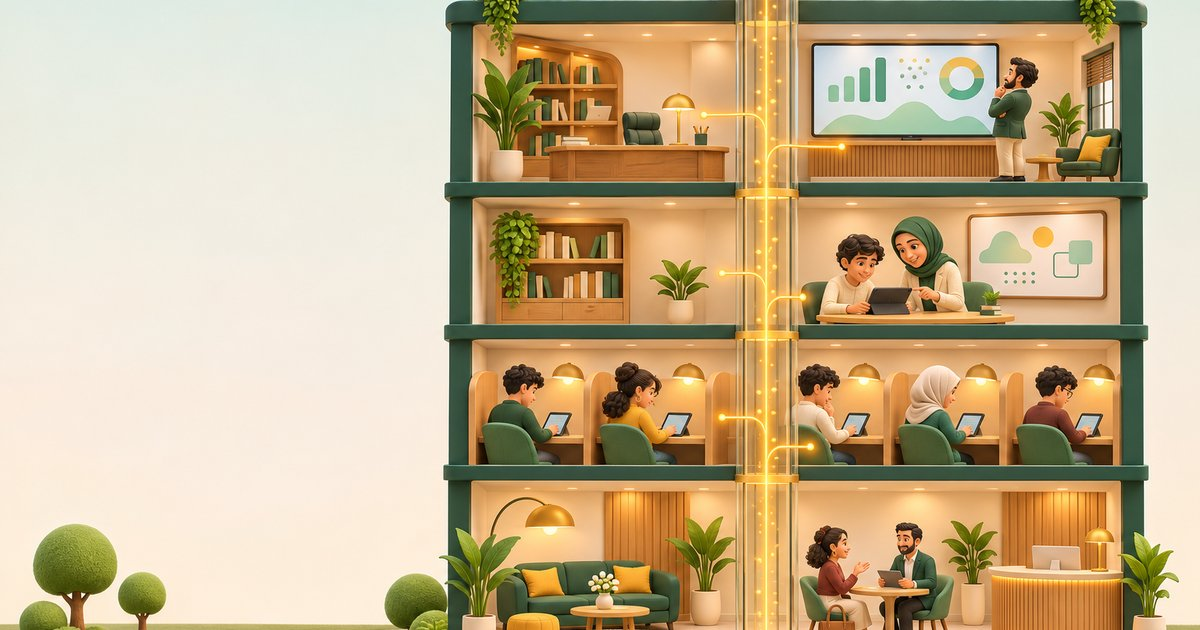
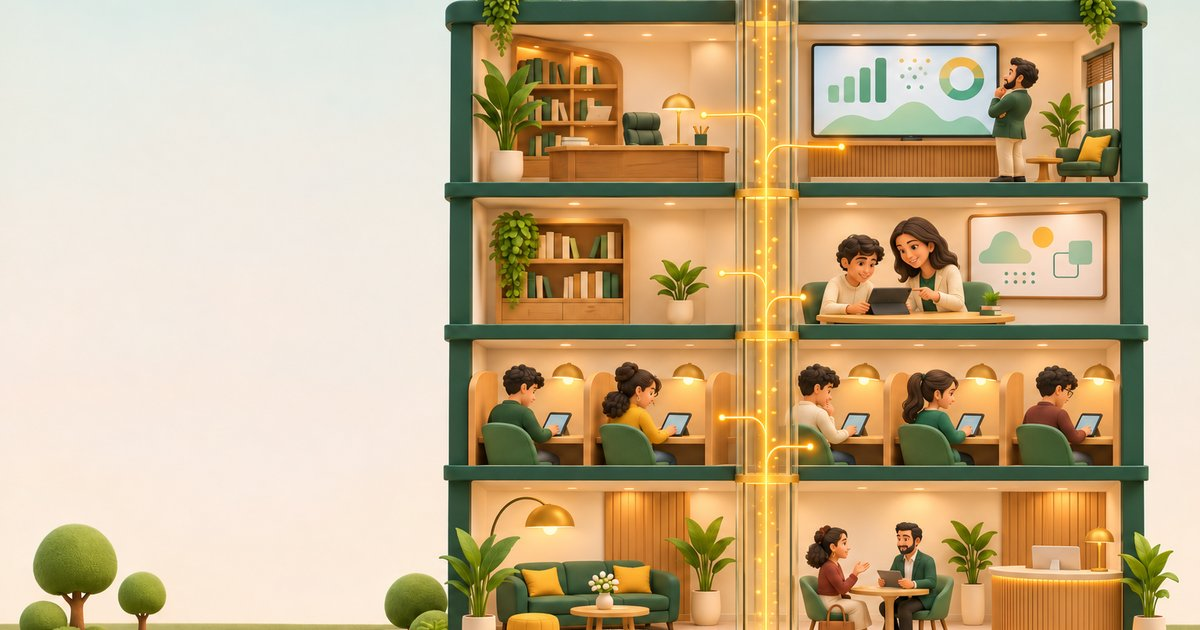
Marka yapısı, kendi markanız (white label), veli bilgilendirme, sayılar kaldırıldı, başörtüsüz hero

diff --git a/index.html b/index.html
@@ -4,16 +4,16 @@
 <meta charset="utf-8">
 <meta name="viewport" content="width=device-width, initial-scale=1">
 <title>KURSLA.ai | Yapay Zekâ Destekli Bireysel Öğrenme Merkezi</title>
-<meta name="description" content="KURSLA.ai, mevcut kurs merkezlerine yapay zekâ desteği ve AI destekli bireysel mentörlük sağlayan sistem. Marka, AI-LA altyapısı, eğitim modeli ve operasyon tek yapıda.">
+<meta name="description" content="KURSLA.ai, mevcut kurs merkezlerine yapay zekâ desteği ve AI destekli bireysel mentörlük sağlayan sistem. Kendi markanızla çalışan AI-LA altyapısı, eğitim modeli ve operasyon tek yapıda.">
 <meta property="og:title" content="KURSLA.ai | Kurs merkezinizi yapay zekâ ile yeniden kurun">
-<meta property="og:description" content="Marka, AI-LA teknolojisi ve eğitim modeli tek yapıda. Yönetici, öğretmen, öğrenci ve veli aynı sistemi kendi ekranından izler.">
+<meta property="og:description" content="Markayı biz vermiyoruz, sizin markanızı bir üst seviyeye taşıyoruz. AI-LA teknolojisi ve eğitim modeli, kurs merkezinizin kendi adıyla.">
 <meta property="og:image" content="img/og.jpg">
 <meta name="theme-color" content="#10574a">
 <link rel="icon" href="img/ikon.png" type="image/png">
 <link rel="preconnect" href="https://fonts.googleapis.com">
 <link rel="preconnect" href="https://fonts.gstatic.com" crossorigin>
 <link href="https://fonts.googleapis.com/css2?family=Outfit:wght@500;600;700;800;900&family=Plus+Jakarta+Sans:wght@400;500;600;700&display=swap" rel="stylesheet">
-<link rel="stylesheet" href="style.css?v=22">
+<link rel="stylesheet" href="style.css?v=25">
 <!-- Kursla v1 (15.11.2026). İçerik canlı kursla.ai'den; düzen AI-LA landing'inden; hero fikri Okumino'nun
      "okuma odası"ndan: tek bir Codex sahnesi (kesitli kurs binası), katlar tıklanabilir, AI-LA çekirdeği canlı. -->
 </head>
@@ -25,7 +25,7 @@
     <a href="#model">Modelimiz</a>
     <a href="#nasil">Nasıl Çalışır?</a>
     <a href="#ekosistem">AI-LA</a>
-    <a href="#franchise">Franchise</a>
+    <a href="#markaniz">Kendi markanız</a>
     <a href="#uygulama">Uygulama</a>
   </nav>
   <button class="mod" id="mod" type="button" aria-label="Akşam etüdüne geç" aria-pressed="false">
@@ -42,8 +42,8 @@
 <section class="hero" id="ust" aria-labelledby="heroBaslik">
   <div class="sahne" id="sahne">
     <div class="bina" id="bina">
-      <img class="gunduz" src="img/hero_gunduz.webp" alt="" fetchpriority="high">
-      <img class="aksam" src="img/hero_aksam.webp" alt="" loading="lazy">
+      <img class="gunduz" src="img/hero_gunduz.webp?v=2" alt="" fetchpriority="high">
+      <img class="aksam" src="img/hero_aksam.webp?v=2" alt="" loading="lazy">
       <div class="cekirdek" id="cekirdek" aria-hidden="true"><i class="akis"></i><i class="nabiz" id="nabiz"></i></div>
       <div class="katlar" id="katlar" role="group" aria-label="Kurs merkezi katları. Bir kata tıklayarak o paydaşın ekranını görün."></div>
       <div class="el" id="el" aria-hidden="true"><i class="el-dalga"></i><svg viewBox="0 0 32 32" aria-hidden="true"><path d="M12.5 16V6.6a2.1 2.1 0 0 1 4.2 0v7.6l.1-1.3a2 2 0 0 1 4 .3v1.6l.2-.8a2 2 0 0 1 3.9.6v2.2l.2-.4a1.9 1.9 0 0 1 3.6.9v3.9c0 4.6-3.5 8-8.1 8h-1.9c-2.5 0-4.3-1-5.8-2.9l-4.6-6a2.1 2.1 0 0 1 3.2-2.7Z"/></svg></div>
@@ -80,14 +80,6 @@
   </div>
 </section>
 
-<!-- 2. SAYILAR -->
-<section class="sayilar" aria-label="Kısaca KURSLA.ai">
-  <div class="sayi"><b data-say="8" data-son=" hafta">0</b><span>Ortalama dönüşüm süresi</span></div>
-  <div class="sayi"><b data-say="3" data-on="x">0</b><span>Öğretmen başına birebir takip kapasitesi</span></div>
-  <div class="sayi"><b>0 dk</b><span>Manuel ödev hazırlama süresi</span></div>
-  <div class="sayi"><b data-say="4" data-son=" panel">0</b><span>Yönetici · öğretmen · öğrenci · veli</span></div>
-</section>
-
 <!-- 3. MODEL -->
 <section class="bolum" id="model" aria-labelledby="modelBaslik">
   <div class="bolum-ust">
@@ -99,8 +91,8 @@
     <article class="bilesen gor" style="--d:0">
       <div class="bilesen-gorsel"><img src="img/p_marka.webp" alt="" loading="lazy"></div>
       <span class="no">01</span>
-      <h3>Marka</h3>
-      <p>Kurumsal kimlik, konumlandırma ve veli iletişimi standartlarıyla bölgenizde tanınan bir kurum.</p>
+      <h3>Kendi markanız</h3>
+      <p>Sistem sizin adınız, logonuz ve renklerinizle çalışır; KURSLA.ai arka planda altyapı olarak kalır.</p>
     </article>
     <article class="bilesen gor" style="--d:1">
       <div class="bilesen-gorsel"><img src="img/p_teknoloji.webp" alt="" loading="lazy"></div>
@@ -149,7 +141,7 @@
       <li data-t="0.26"><b>Kişisel plan</b><span>Öğrenciye özel haftalık çalışma planı oluşturulur.</span></li>
       <li data-t="0.5"><b>İçerik ataması</b><span>Doğru konu, doğru zamanda ve doğru platformdan gelir.</span></li>
       <li data-t="0.74"><b>Öğretmen takibi</b><span>Birebir seanslarla öğretmen rehberliği devam eder.</span></li>
-      <li data-t="0.98"><b>Veli raporu</b><span>Veli, sade ve anlaşılır bir gelişim özeti alır.</span></li>
+      <li data-t="0.98"><b>Veli bilgilendirme</b><span>Veliye sade ve düzenli bilgilendirmeler sunulur.</span></li>
     </ol>
   </div>
 </section>
@@ -185,25 +177,25 @@
   <div class="panel-alan" id="panelAlan"></div>
 </section>
 
-<!-- 8. FRANCHISE -->
-<section class="bolum bolum-krem" id="franchise" aria-labelledby="frBaslik">
+<!-- 8. KENDİ MARKANIZ (white label) -->
+<section class="bolum bolum-krem" id="markaniz" aria-labelledby="frBaslik">
   <div class="bolum-ust">
-    <p class="ust-etiket">Franchise</p>
-    <h2 id="frBaslik">Sisteme <span class="y">iki şekilde</span> dahil olabilirsiniz</h2>
-    <p class="giris-metin">Çalışan bir kurs merkeziniz varsa sisteme taşıyın; yeni kuruyorsanız en baştan kurgulayın.</p>
+    <p class="ust-etiket">Kendi markanız</p>
+    <h2 id="frBaslik">Markanızı <span class="y">bir üst seviyeye</span> taşıyın</h2>
+    <p class="giris-metin">Markayı biz vermiyoruz. KURSLA.ai, white label altyapısıyla kendi markanızı yapay zekâ destekli bir öğrenme merkezine dönüştürür.</p>
   </div>
   <div class="ikili">
     <article class="yol-kart one gor" style="--d:0">
       <span class="rozet">En çok tercih edilen</span>
       <img src="img/y_mevcut.webp" alt="" loading="lazy">
-      <div><h3>Mevcut merkezinizi sisteme taşıyın</h3>
-      <p>Kurulu düzeninizi ve kadronuzu koruyarak marka, yapay zekâ altyapısı ve mentörlük modelini devreye alın.</p>
+      <div><h3>Mevcut merkezinizi dönüştürün</h3>
+      <p>Adınız, kadronuz ve düzeniniz aynı kalır; yapay zekâ altyapısı ve mentörlük modeli sizin markanızla devreye girer.</p>
       <a class="btn" href="#basvuru" data-tur="donusum">Mevcut merkezim için başvur <span aria-hidden="true">→</span></a></div>
     </article>
     <article class="yol-kart gor" style="--d:1">
       <img src="img/y_yeni.webp" alt="" loading="lazy">
-      <div><h3>Yeni kuracağınız merkeze kurgulayın</h3>
-      <p>Eğitim sektörüne yeni giriyorsanız, sistemi ve eğitim modelini ilk günden doğru kurmanız için yanınızdayız.</p>
+      <div><h3>Yeni merkezinizi kendi markanızla kurun</h3>
+      <p>Eğitim sektörüne yeni giriyorsanız, sistemi ve eğitim modelini ilk günden kendi markanızla doğru kurmanız için yanınızdayız.</p>
       <a class="btn btn-ghost" href="#basvuru" data-tur="yeni">Yeni merkez için başvur <span aria-hidden="true">→</span></a></div>
     </article>
   </div>
@@ -218,7 +210,7 @@
       <ul class="uy-liste">
         <li class="gor" style="--d:0"><img class="ikon3d" src="img/u_bulut.webp?v=2" alt="" loading="lazy"><div><b>Bulut tabanlı altyapı</b><p>Ek donanım veya tadilat gerekmez; sistem mevcut düzeninizin üzerine kurulur.</p></div></li>
         <li class="gor" style="--d:1"><img class="ikon3d" src="img/u_mentor.webp?v=2" alt="" loading="lazy"><div><b>AI destekli bireysel mentörlük</b><p>Her öğrencinin planını yapay zekâ kurar, öğretmen mentör olarak takip eder.</p></div></li>
-        <li class="gor" style="--d:2"><img class="ikon3d" src="img/u_panel.webp?v=2" alt="" loading="lazy"><div><b>Ortak panel ve raporlama</b><p>Yönetici, öğretmen, öğrenci ve veli aynı sistemi kendi ekranından izler.</p></div></li>
+        <li class="gor" style="--d:2"><img class="ikon3d" src="img/u_panel.webp?v=2" alt="" loading="lazy"><div><b>Ortak panel ve raporlama</b><p>Yönetici, öğretmen ve öğrenci aynı sistemi kendi ekranından izler; veliye düzenli bilgilendirme gider.</p></div></li>
       </ul>
     </div>
     <figure class="foto gor">
@@ -239,7 +231,7 @@
 
 <!-- 11. BAŞVURU: aynı bina, akşam -->
 <section class="basvuru" id="basvuru" aria-labelledby="basBaslik">
-  <div class="basvuru-zemin" aria-hidden="true"><img src="img/hero_aksam.webp" alt="" loading="lazy"></div>
+  <div class="basvuru-zemin" aria-hidden="true"><img src="img/hero_aksam.webp?v=2" alt="" loading="lazy"></div>
   <div class="basvuru-ic">
     <div class="basvuru-metin">
       <img class="basvuru-logo" src="img/kursla_logo_beyaz.webp" alt="KURSLA.ai" width="677" height="368">
@@ -277,19 +269,19 @@
   <div class="alt-izgara">
     <div class="alt-marka">
       <img src="img/kursla_logo_beyaz.webp" alt="KURSLA.ai" width="677" height="368">
-      <p>Mevcut kurs merkezlerine yapay zekâ desteği ve bireysel mentörlük sağlayan; marka, teknoloji ve eğitim modelini tek yapıda sunan sistem.</p>
+      <p>Kurs merkezlerine kendi markalarıyla çalışan yapay zekâ altyapısı ve bireysel mentörlük modeli sağlayan white label sistem.</p>
     </div>
     <div><h4>Platform</h4><a href="https://kursla.ai">kursla.ai</a><a href="https://login.kursla.ai">login.kursla.ai</a><a href="https://ai-la.ai">AI-LA ekosistemi</a></div>
-    <div><h4>Nasıl çalışır?</h4><a href="#franchise">Mevcut merkezler için</a><a href="#franchise">Yeni kurulumlar için</a><a href="#basvuru">Başvuru formu</a><a href="#uygulama">Uygulama modeli</a></div>
+    <div><h4>Nasıl çalışır?</h4><a href="#markaniz">Mevcut merkezler için</a><a href="#markaniz">Yeni kurulumlar için</a><a href="#basvuru">Başvuru formu</a><a href="#uygulama">Uygulama modeli</a></div>
     <div><h4>İletişim</h4><a href="mailto:info@kursla.ai">info@kursla.ai</a><span>Pazartesi–Cuma · 09:00–18:00</span></div>
   </div>
   <div class="alt-son">
     <span>© 2026 KURSLA.ai — Tüm hakları saklıdır.</span>
     <span class="alt-yasal"><a href="kvkk/">KVKK</a><a href="kvkk/#basvuru-formu">Başvuru formu aydınlatma metni</a><a href="https://bilisimschool.com/kvkk/cerez_ve_gizlilik_politikasi.pdf" target="_blank" rel="noopener">Çerez ve Gizlilik Politikası</a></span>
-    <span>Bir <a href="https://ai-la.ai">AI-LA</a> ekosistem ürünüdür.</span>
+    <span>KURSLA.ai bir <a href="https://ai-la.ai">AI-LA</a> ekosistem ürünüdür.</span>
   </div>
 </footer>
 
-<script src="app.js?v=23"></script>
+<script src="app.js?v=24"></script>
 </body>
 </html>

diff --git a/app.js b/app.js
@@ -14,16 +14,16 @@ const KATLAR = [
     mock: { t: 'Merkez özeti', m: 'BU HAFTA', s: [['Aktif öğrenci', '142 / 150'], ['Birebir seans', '96 görüşme'], ['AI-LA uyarısı', '3 öğrenci', 1]], c: [52, 64, 58, 72, 80, 76, 92] } },
   { id: 'ogretmen', no: 3, ad: 'Öğretmen', kutu: [39.4, 35.4, 93.4, 51.3],
     baslik: 'Öğretmen paneli', metin: 'Plan hazırlığıyla uğraşmadan, doğrudan öğrenciyle geçirdiğiniz zamana odaklanın.',
-    ozellik: ['Öğrenci bazlı hazır haftalık plan', 'Eksik konu ve öncelik uyarıları', 'Birebir seans ajandası'],
+    ozellik: ['Öğrenci bazlı hazır haftalık plan', 'Eksik konu ve öncelik uyarıları', 'Birebir seans ajandası', 'Veliye otomatik bilgilendirme'],
     mock: { t: 'Günün akışı', m: 'BUGÜN', s: [['Ahmet Y. · 8-A', '15:30 seans'], ['Öncelikli konu', 'Üslü ifadeler'], ['Onay bekleyen plan', '4 öğrenci', 1]] } },
   { id: 'ogrenci', no: 2, ad: 'Öğrenci', kutu: [39.4, 53.2, 93.4, 68.8],
     baslik: 'Öğrenci ekranı', metin: 'Ne çalışacağını düşünmeden, her gün net ve ulaşılabilir görevlerle ilerle.',
     ozellik: ['Günlük üç adımlık çalışma planı', 'Tek girişle tüm içerik platformları', 'Haftalık ilerleme özeti'],
     mock: { t: 'Bugünkü plan', m: '3 GÖREV', s: [['Konu anlatımı', 'Tamamlandı'], ['Odaklanma çalışması', 'Tamamlandı'], ['Deneme testi', 'Bekliyor', 1]] } },
   { id: 'veli', no: 1, ad: 'Veli', kutu: [39.4, 70.8, 93.4, 92.3],
-    baslik: 'Veli raporu', metin: 'Karmaşık grafikler yerine, çocuğunuzun gelişimini anlatan sade bir haftalık özet.',
-    ozellik: ['Haftalık çalışma süresi', 'Akademik gelişim özeti', 'Öğretmen notu ve devam bilgisi'],
-    mock: { t: 'Haftalık özet', m: 'CAN T.', s: [['Bireysel çalışma', '18 saat'], ['Okuma hızı', '+%20'], ['Öğretmen notu', 'Var', 1]], c: [30, 42, 38, 55, 61, 58, 70] } },
+    baslik: 'Veli bilgilendirme', metin: 'Veliye çocuğunun gelişimiyle ilgili sade ve düzenli bilgilendirmeler sunulur.',
+    ozellik: [],
+    mock: { t: 'Bu haftaki bilgilendirme', m: 'CAN T.', s: [['Bireysel çalışma', '18 saat'], ['Gelişen alan', 'Okuma'], ['Öğretmen notu', 'Eklendi', 1]] } },
 ];
 // AI-LA şaftı: [sol, üst, genişlik, yükseklik] %
 const SAFT = [61.6, 7.6, 4.4, 84.9];
@@ -32,7 +32,7 @@ const OLAYLAR = [
   ['Ahmet Y. için eksik konu tespit edildi', 'ogrenci'],
   ['Öğretmene birebir seans önerildi', 'ogretmen'],
   ['Haftalık plan yeniden kuruldu', 'ogrenci'],
-  ['Veli gelişim raporu gönderildi', 'veli'],
+  ['Veliye haftalık bilgilendirme gönderildi', 'veli'],
   ['İçerik Platformu konu anlatımı öğrenciye atandı', 'ogrenci'],
   ['Zeynep K. deneme netini 18 artırdı', 'yonetici'],
   ['Can T. akşam çalışmasını tamamladı', 'ogrenci'],
@@ -135,7 +135,9 @@ function katAc(i) {
   $('#katBaslik').textContent = k.baslik;
   $('#katMetin').textContent = k.metin;
   $('#katMock').innerHTML = mockHTML(k);
-  $('#katGit').onclick = () => sekmeSec(k.id);
+  const git = $('#katGit');
+  if (k.id === 'veli') { git.href = '#yolculuk'; git.firstChild.textContent = 'Öğrenci yolculuğu '; git.onclick = null; }
+  else { git.href = '#paneller'; git.firstChild.textContent = 'Paneli incele '; git.onclick = () => sekmeSec(k.id); }
   baslik.classList.add('gizli');
   kart.hidden = false;
   nabizGonder(k);
@@ -257,37 +259,40 @@ durakYerlestir(); kaydir();
 // Örnek kursiyer verisi (AI-LA beceri haritası mantığı: alan = alt becerilerin ortalaması).
 // eksik = hatalı soruların konu eksiği payı (%), kalanı dikkat hatası.
 const ALANLAR = [
-  { ad: 'Matematik', alt: [['Sayılar', 68], ['Cebir', 48], ['Geometri', 64]], eksik: 64, oneri: 'Üslü ifadeler için 2 konu anlatımı ve 1 birebir seans planlandı.' },
-  { ad: 'Türkçe', alt: [['Okuduğunu anlama', 86], ['Sözcük', 80], ['Paragraf', 76]], eksik: 35, oneri: 'Paragraf sorularına süreli tekrar eklendi.' },
+  { ad: 'Matematik', alt: [['Sayılar', 68], ['Cebir', 48], ['Geometri', 64]], eksik: 64, oneri: 'Bilgin\'de üslü ifadeler için 2 konu anlatımı ve 1 birebir seans planlandı.' },
   { ad: 'Fen', alt: [['Kavram', 70], ['Deney yorumu', 58], ['Problem', 66]], eksik: 58, oneri: 'Deney yorumu için görselli konu tekrarı atandı.' },
-  { ad: 'İngilizce', alt: [['Kelime', 78], ['Okuma', 72], ['Dinleme', 64]], eksik: 47, oneri: 'Haftada 3 kısa dinleme görevi plana girdi.' },
-  { ad: 'Okuma hızı', alt: [['Hız', 76], ['Anlama', 88], ['Odak', 74]], eksik: 28, oneri: 'Hızlıokuma Platformunda göz egzersizi serisi başladı.' },
-  { ad: 'Çalışma düzeni', alt: [['Düzenlilik', 88], ['Görev', 92], ['Odak süresi', 70]], eksik: 22, oneri: 'Akşam çalışması 25 dakikalık bloklara bölündü.' },
+  { ad: 'Türkçe', alt: [['Okuduğunu anlama', 86], ['Sözcük', 80], ['Okuma alışkanlığı', 72]], eksik: 32, oneri: 'Okumino\'da haftada 2 okuma durağı plana eklendi.' },
+  { ad: 'İngilizce', alt: [['Kelime', 78], ['Okuma', 72], ['Dinleme', 62]], eksik: 47, oneri: 'Readmino\'da 3 kısa dinleme görevi planlandı.' },
+  { ad: 'Kodlama', alt: [['Algoritma', 82], ['Hata ayıklama', 68], ['Proje', 88]], eksik: 26, oneri: 'TALENT14 patikasında döngüler adımı açıldı.' },
+  { ad: 'Yapay zekâ', alt: [['İstem yazma', 80], ['Doğrulama', 60], ['Etik', 76]], eksik: 30, oneri: 'AI-GALAXY\'de kaynak doğrulama görevi eklendi.' },
 ];
-const ESKI = [52, 74, 58, 64, 66, 72]; // 4 hafta önce
+const ESKI = [52, 60, 74, 62, 72, 66]; // 4 hafta önce
+// Haritayı besleyen ekosistem markaları (hepsi AI-LA ekosisteminin kendi markaları)
 const KAYNAKLAR = [
-  { id: 'icerik', ad: 'İçerik Platformu', img: 'n_icerik' },
-  { id: 'hizli', ad: 'Hızlıokuma Platformu', img: 'n_hizliokuma' },
-  { id: 'seans', ad: 'Birebir seans', img: 'r_ogretmen' },
-  { id: 'plan', ad: 'Günlük plan', img: 'r_ogrenci' },
+  { id: 'bilgin', ad: 'Bilgin', rol: 'İçerik Platformu', img: 'n_icerik' },
+  { id: 'okumino', ad: 'Okumino', rol: 'Okuma Platformu', img: 'n_hizliokuma' },
+  { id: 'readmino', ad: 'Readmino', rol: 'İngilizce Öğrenme Platformu', img: 'b_ingilizce' },
+  { id: 'talent14', ad: 'TALENT14', rol: 'Kodlama Becerileri Platformu', img: 'b_kodlama' },
+  { id: 'aigalaxy', ad: 'AI-GALAXY', rol: 'Yapay Zekâ Okuryazarlığı Platformu', img: 'b_yz' },
+  { id: 'talentcup', ad: 'TalentCup', rol: 'Yarışma Platformu', img: 'b_yarisma' },
 ];
 // [kaynak, alan, alt beceri, artış, etiket]
 const BESLEME = [
-  ['icerik', 0, 1, 3, 'Üslü ifadeler konu anlatımı tamamlandı'],
-  ['hizli', 4, 0, 2, 'Göz egzersizi serisi: 3. gün'],
-  ['seans', 0, 1, 4, 'Birebir seans: cebir tekrarı'],
-  ['plan', 5, 2, 2, '25 dakikalık odak bloğu bitti'],
-  ['icerik', 2, 1, 3, 'Deney yorumu videosu izlendi'],
-  ['hizli', 1, 2, 2, 'Süreli paragraf okuması'],
-  ['plan', 3, 2, 2, 'Dinleme görevi tamamlandı'],
-  ['icerik', 3, 0, 1, 'Kelime kartları tekrarı'],
+  ['bilgin', 0, 1, 3, 'Üslü ifadeler konu anlatımı tamamlandı'],
+  ['okumino', 2, 2, 2, 'Okuma patikasında 3. durak bitti'],
+  ['talent14', 4, 1, 3, 'Döngüler adımında hata ayıklama'],
+  ['readmino', 3, 2, 2, 'Dinleme görevi tamamlandı'],
+  ['aigalaxy', 5, 1, 3, 'Kaynak doğrulama görevi'],
+  ['bilgin', 1, 1, 3, 'Deney yorumu videosu izlendi'],
+  ['talentcup', 4, 2, 2, 'Yarışma projesi teslim edildi'],
+  ['readmino', 3, 0, 1, 'Kelime kartları tekrarı'],
 ];
 const BAZ = ALANLAR.map(a => a.alt.map(x => x[1]));
 const ort = a => Math.round(a.alt.reduce((t, x) => t + x[1], 0) / a.alt.length);
 
 const besle = $('#besle'), kaynakUl = $('#kaynaklar'), radar = $('#radar'), detay = $('#alanDetay');
 const cizgi = $('#besleCizgi'), cekAi = $('#cekirdekAi');
-kaynakUl.innerHTML = KAYNAKLAR.map(k => `<li><button type="button" class="kaynak" data-id="${k.id}"><img src="img/${k.img}.webp" alt="">${k.ad}</button></li>`).join('');
+kaynakUl.innerHTML = KAYNAKLAR.map(k => `<li><button type="button" class="kaynak" data-id="${k.id}"><img src="img/${k.img}.webp" alt=""><span><b>${k.ad}</b><small>${k.rol}</small></span></button></li>`).join('');
 
 // Radar: 6 eksen, yarıçap 100 = puan 100
 const RR = 100, aci = i => -Math.PI / 2 + i * Math.PI / 3;
@@ -397,7 +402,7 @@ addEventListener('load', hatCiz);
 
 /* ---- paneller ---- */
 const sekmeler = $('#sekmeler'), panelAlan = $('#panelAlan');
-const SIRA = ['yonetici', 'ogretmen', 'ogrenci', 'veli'];
+const SIRA = ['yonetici', 'ogretmen', 'ogrenci'];
 SIRA.forEach(id => {
   const k = KATLAR.find(x => x.id === id);
   const b = document.createElement('button');
@@ -468,5 +473,5 @@ form.addEventListener('submit', async e => {
 const bolumIO = new IntersectionObserver(es => es.forEach(e => {
   if (e.isIntersecting) $$('.links a').forEach(a => a.classList.toggle('aktif', a.getAttribute('href') === '#' + e.target.id));
 }), { rootMargin: '-45% 0px -50% 0px' });
-['model', 'nasil', 'ekosistem', 'franchise', 'uygulama'].forEach(id => bolumIO.observe($('#' + id)));
+['model', 'nasil', 'ekosistem', 'markaniz', 'uygulama'].forEach(id => bolumIO.observe($('#' + id)));
 })();

diff --git a/style.css b/style.css
@@ -67,7 +67,7 @@ body.aksam .mod .ay{opacity:1;transform:none}
 .bina .aksam{opacity:0}
 body.aksam .bina .aksam{opacity:1}
 .hero::after{content:none}
-body.aksam .hero{background:linear-gradient(180deg,#0f4b5d 0%,#13576a 22%,#1c6474 40%,#286d7a 60%,#2c6a6c 78%,#1f4a40 100%)}
+body.aksam .hero{background:linear-gradient(180deg,#044460 0%,#0f5776 22%,#1b6584 40%,#337491 60%,#4a7577 78%,#25473b 100%)}
 .hero-sol{position:relative;z-index:3;min-height:max(100svh,624px);display:flex;align-items:center;padding:100px var(--kenar) 110px;max-width:min(680px,calc(97vw - var(--bh) * .81 - 32px));pointer-events:none}
 .hero-sol>*{pointer-events:auto}
 .baslik{transition:opacity .45s,transform .55s var(--ease)}
@@ -241,7 +241,7 @@ body.aksam .hero .ust-etiket,body.aksam .hero .ipucu{color:var(--altin-y)}
 .bolum-koyu h2{color:#fff}
 .bolum-koyu .y{color:var(--altin-y)}
 .bolum-koyu .ust-etiket{color:#6fe0c2}
-.besle{position:relative;display:grid;grid-template-columns:minmax(200px,250px) 120px minmax(0,1fr);grid-template-rows:auto auto;column-gap:clamp(24px,4vw,64px);row-gap:18px;align-items:center;max-width:1220px;margin:0 auto}
+.besle{position:relative;display:grid;grid-template-columns:minmax(230px,290px) 110px minmax(0,1fr);grid-template-rows:auto auto;column-gap:clamp(24px,4vw,64px);row-gap:18px;align-items:center;max-width:1220px;margin:0 auto}
 .besle-cizgi{position:absolute;inset:0;width:100%;height:100%;overflow:visible;pointer-events:none}
 .besle-cizgi .hat{fill:none;stroke:#21a98c80;stroke-width:2;stroke-dasharray:2 8;stroke-linecap:round}
 .besle-cizgi .hat.aktif{stroke:#ffc94fb3;stroke-dasharray:none}
@@ -249,6 +249,10 @@ body.aksam .hero .ust-etiket,body.aksam .hero .ipucu{color:var(--altin-y)}
 .kaynaklar{list-style:none;display:grid;gap:14px;grid-row:1}
 .kaynak{display:flex;align-items:center;gap:12px;width:100%;padding:8px 14px 8px 8px;border-radius:20px;background:#ffffff0d;box-shadow:inset 0 0 0 1px #ffffff1a;color:#e8f1ed;font-weight:700;font-size:15px;text-align:left;transition:background .3s,box-shadow .3s,transform .3s var(--ease)}
 .kaynak img{width:64px;height:64px;object-fit:contain;flex:none;transition:transform .4s var(--ease)}
+.kaynak span{display:flex;flex-direction:column;line-height:1.2}
+.kaynak b{font:800 15px var(--baslik);color:#fff;letter-spacing:.01em}
+.kaynak small{font-size:12.5px;font-weight:600;color:#a9c1b8;margin-top:2px}
+.kaynak.aktif small{color:#f3e2b0}
 .kaynak:hover{background:#ffffff17}
 .kaynak.aktif{background:#f5b62b24;box-shadow:inset 0 0 0 1.5px #ffc94f99,0 0 30px #f5b62b33;transform:translateX(6px)}
 .kaynak.aktif img{transform:scale(1.08) rotate(-3deg)}
@@ -421,8 +425,9 @@ body.aksam .hero .ust-etiket,body.aksam .hero .ipucu{color:var(--altin-y)}
   .panel-gorsel{width:clamp(64px,12svh,120px);height:clamp(64px,12svh,120px)}
   .sekmeler{margin-bottom:clamp(14px,3svh,30px)}
   .yol-kart img{max-height:clamp(150px,36svh,320px)}
-  .kaynaklar{gap:clamp(8px,1.6svh,14px)}
-  .kaynak img{width:clamp(44px,8svh,64px);height:clamp(44px,8svh,64px)}
+  .kaynaklar{gap:clamp(5px,1svh,10px)}
+  .kaynak{padding-top:clamp(3px,.6svh,8px);padding-bottom:clamp(3px,.6svh,8px)}
+  .kaynak img{width:clamp(38px,6.4svh,54px);height:clamp(38px,6.4svh,54px)}
   .harita{padding:clamp(12px,2.4svh,20px) 24px}
   .radar{max-height:clamp(220px,42svh,330px)}
   .uy-liste{gap:clamp(10px,2svh,18px);margin:clamp(14px,3svh,28px) 0}

diff --git a/kvkk/index.html b/kvkk/index.html
@@ -99,6 +99,6 @@ footer .ic{max-width:1120px;margin:0 auto;padding:22px var(--pad);display:flex;j
 </section>
 </main>
 <section class="iletisim"><p>Kişisel verilerinizle ilgili sorularınız veya başvurularınız için <a href="mailto:info@kursla.ai">info@kursla.ai</a> adresine ulaşabilirsiniz.</p></section>
-<footer><div class="ic"><span>© 2026 KURSLA.ai · Tüm hakları saklıdır.</span><span>Bir <a href="https://ai-la.ai" target="_blank" rel="noopener">AI-LA</a> ekosistem ürünüdür.</span></div></footer>
+<footer><div class="ic"><span>© 2026 KURSLA.ai · Tüm hakları saklıdır.</span><span>KURSLA.ai bir <a href="https://ai-la.ai" target="_blank" rel="noopener">AI-LA</a> ekosistem ürünüdür.</span></div></footer>
 </body>
 </html>
